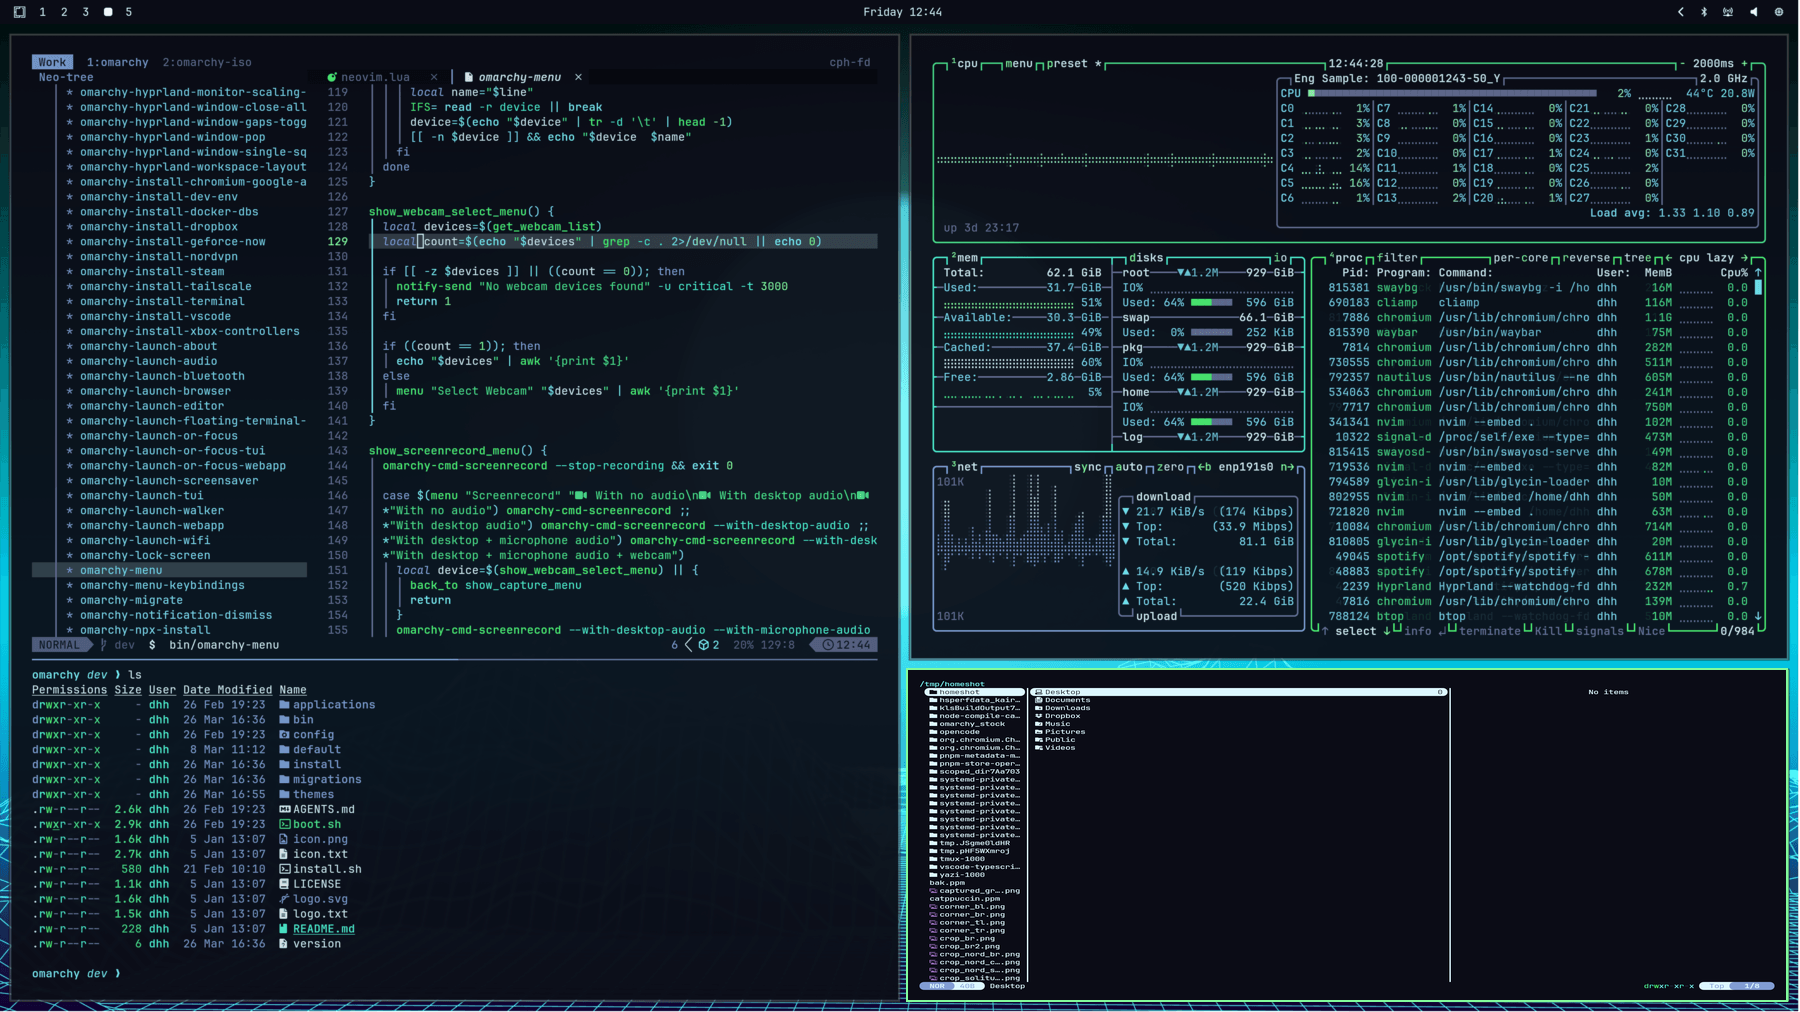
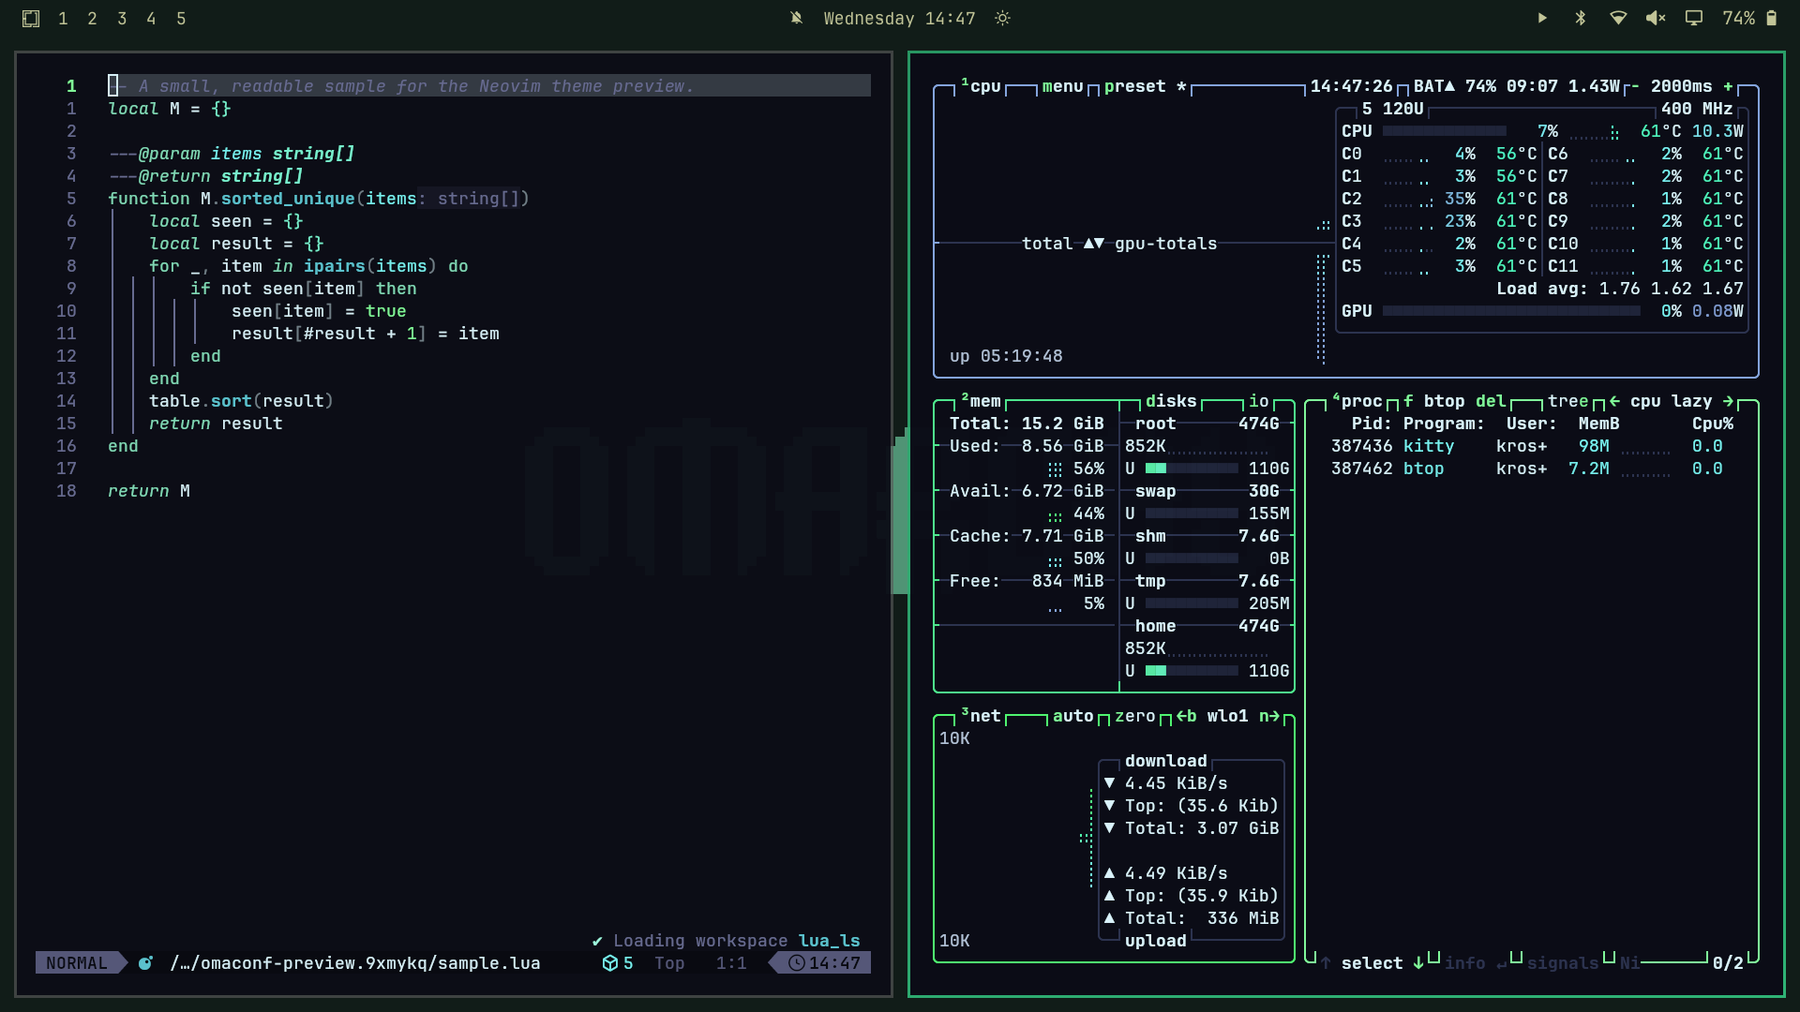
feat: rebuild theme previews with Neovim and btop

Changed region(s): [[0.0, 0.0, 1.0, 1.0], [0.5911, 0.8577, 0.7156, 0.9496], [0.7156, 0.919, 0.7467, 0.9496]]

diff --git a/theme-previews/README.md b/theme-previews/README.md
@@ -1,54 +1,33 @@
 # Theme Previews
 
-Omarchy theme previews regenerated with Yazi as the file manager in place of the stock one, while every other application in the shot is left as it was.
+Each generated preview shows Neovim and btop side by side, using the selected Omarchy theme. This replaces the old Yazi overlay composition with a real capture of the themed desktop, where the editor and system monitor are the two main panes.
 
-## Purpose
+## Rebuild
 
-Upstream previews show the stock file manager, which is not what the desktop actually uses. The purpose of this folder is to produce previews that show Yazi, for whichever themes you choose, and to keep the resulting artwork uniform enough that the theme picker lays every card out identically.
-
-The capture is opt-in and refuses to run without explicit theme slugs, so no theme can silently drift apart. It runs an isolated fullscreen Kitty window with the file manager class, opens Yazi on a free workspace against a temporary home directory, and cleans that directory up whether the capture succeeds or is interrupted. The capture is scaled proportionally and centered in the lower-right tile, aligned with the lower-left pane and kept clear of the upper-right system monitor, and any gap left by the proportional fit is filled with the theme background.
-
-Themes whose upstream artwork ships at a different resolution are normalized before compositing, so they land on the same layout as the rest.
-
-## Usage
-
-The folder holds one image per theme folder plus the capture and apply helpers. Always pass explicit theme slugs; without arguments the capture script exits with a usage error and changes nothing.
+Pass the theme slugs explicitly. The capture opens both applications on an isolated Hyprland workspace, uses the installed Neovim and btop theme configuration, and captures the focused monitor at its actual pixel scale. The script restores the original theme and workspace on exit and applies generated previews to the current user's Omarchy theme overlays.
 
 ```bash
 bash theme-previews/rebuild-previews.sh <theme> [<theme> ...]
-bash theme-previews/apply.sh <theme> [<theme> ...]
 ```
 
 ## Apply Flow
 
-The helper creates the per-user overlay folders as needed, keeps a guarded backup of any preview it is about to replace, installs the rebuilt files with user-only permissions and clears the picker cache so the carousel rebuilds on the next launch. Without the privileged flag it never touches package-owned files.
+The helper creates per-user overlay folders, keeps a guarded backup of any preview it replaces, and clears the picker cache. Without the privileged flag it never touches package-owned files.
 
 ```bash
 bash theme-previews/apply.sh <theme>
 ```
 
-The privileged mode widens the scope to the shared theme tree, so the artwork applies to every user and outside the current session. It requires root and it insists on explicit theme names, so stock artwork belonging to themes you did not choose is never pinned into the durable overlay store.
+System scope requires root and explicit theme names. It records the generated image in the durable overlay store so the post-update hook restores it after package updates.
 
 ```bash
 pkexec env PKEXEC_UID="$(id -u)" bash theme-previews/apply.sh --system <theme> [<theme> ...]
 ```
 
-## Uniform Format
+## Image Contract
 
-Every preview is normalized to the same contract: a fixed geometry, an alpha channel, a fixed bit depth and a fixed density. `scripts/lib/theme-preview.sh` owns that contract and exposes the single check every caller uses, which is what makes the guarantee hold across the setup stage, the update hook and the apply helper.
-
-Normalization exists because upstream is inconsistent. Some themes omit the alpha channel and some ship at a different resolution, so without a single enforced contract the cards disagree on grid, colour model and density, and a scaled tile lands in the wrong place.
-
-Previews that already satisfy the contract are skipped, which keeps the library idempotent. An original that still needs resizing is written once to the stock cache directory so the untouched asset can always be restored. Because the shared theme tree is package-owned, writing into it makes the package manager report those files as altered, which is expected.
-
-## Scaled File Manager Tile
-
-The tile is stored as a reference offset and a reference size against a reference canvas, and it is resolved against the real canvas of the normalized preview on every rebuild. No pixel value is hardcoded, so the capture stays registered to the file manager window even if the canvas changes. The composite is written through an explicit PNG32 coder so it always carries the alpha channel the stock artwork has.
-
-## Durability
-
-A system-scope apply records each composite in the overlay store under `/var/lib`. The post-update hook reinstalls a stored overlay whenever the package copy drifts, so the artwork survives a full system upgrade instead of reverting to the stock file manager. Only the explicitly applied themes are recorded, which leaves the remaining stock previews free to follow upstream updates.
+`scripts/lib/theme-preview.sh` owns the shared normalization contract: 1800x1012 pixels, alpha-capable PNG, 8-bit depth and 72 DPI. The output uses PNG32, and the same library keeps stock backups and restores system overlays after updates.
 
 ## Verification
 
-Open the theme picker and confirm that the rebuilt cards show Yazi with no trace of the stock file manager, while untouched cards keep the stock artwork. Confirm that the rebuild script without arguments prints the usage line and leaves the preview tree untouched. Confirm that every preview reports the same geometry, colour model, depth and density.
+Inspect previews from both light and dark themes. Each image should show Neovim on the left and btop on the right, with readable text and matching theme colors. Confirm all images meet the shared geometry, color, depth and density contract.
